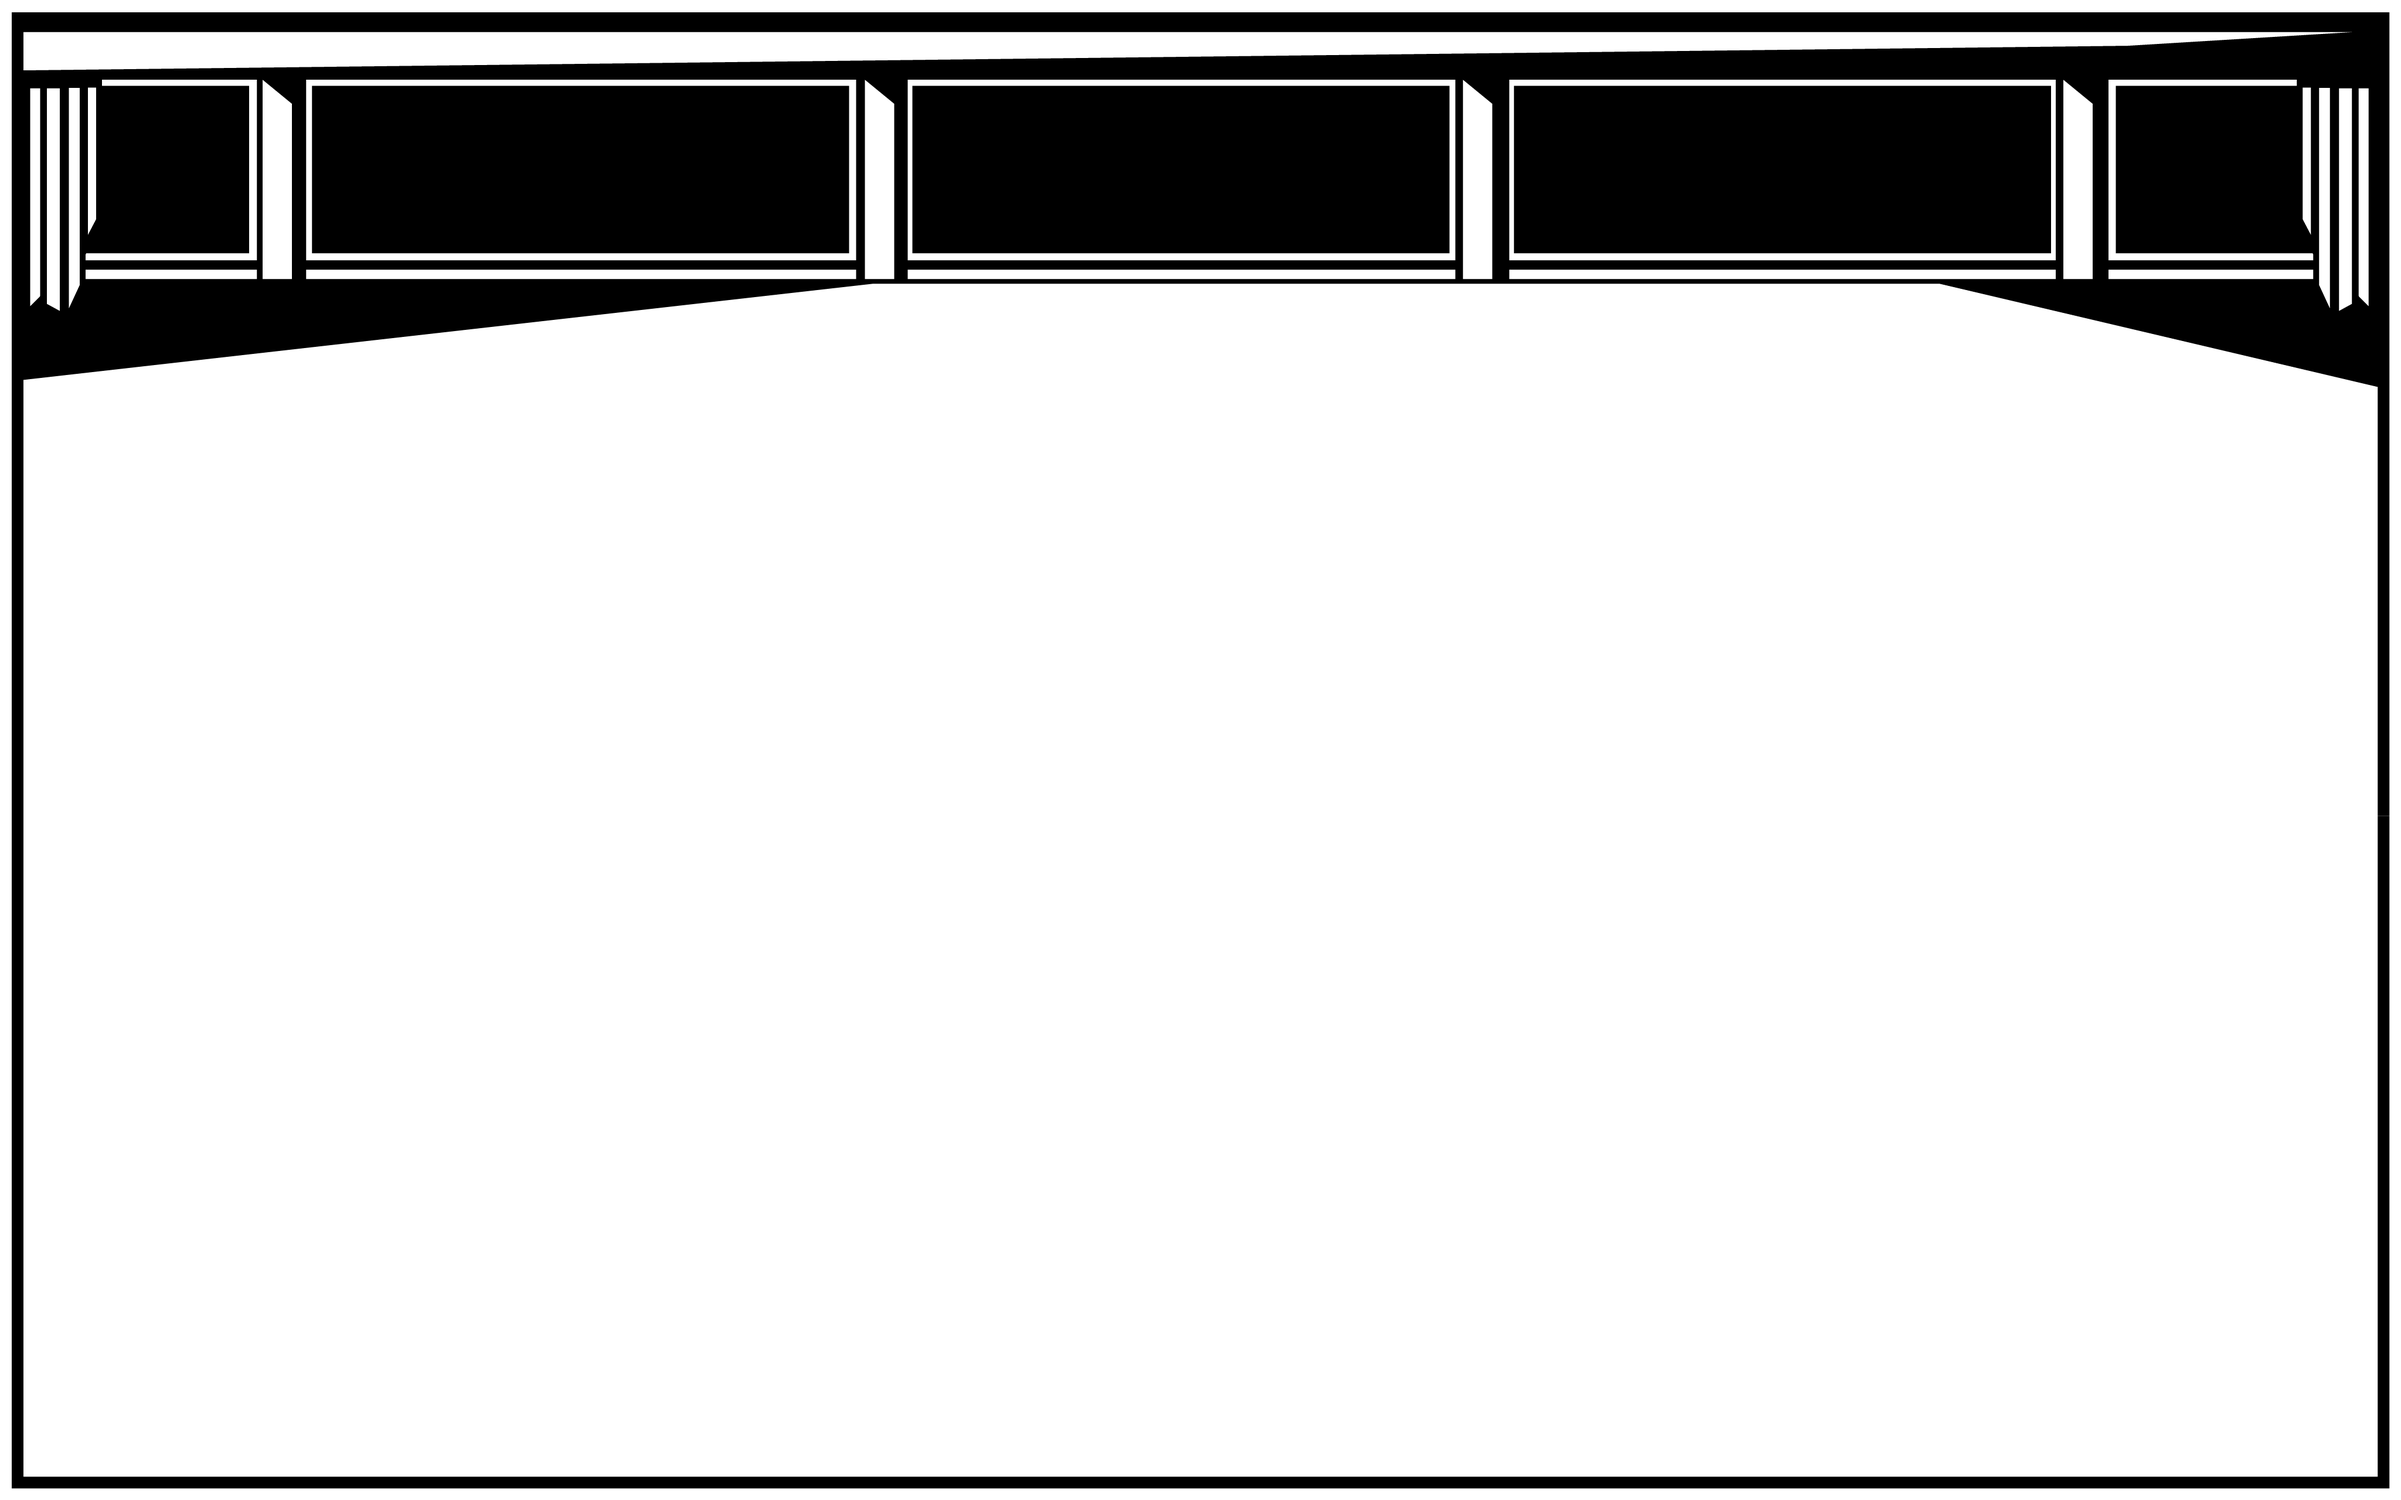
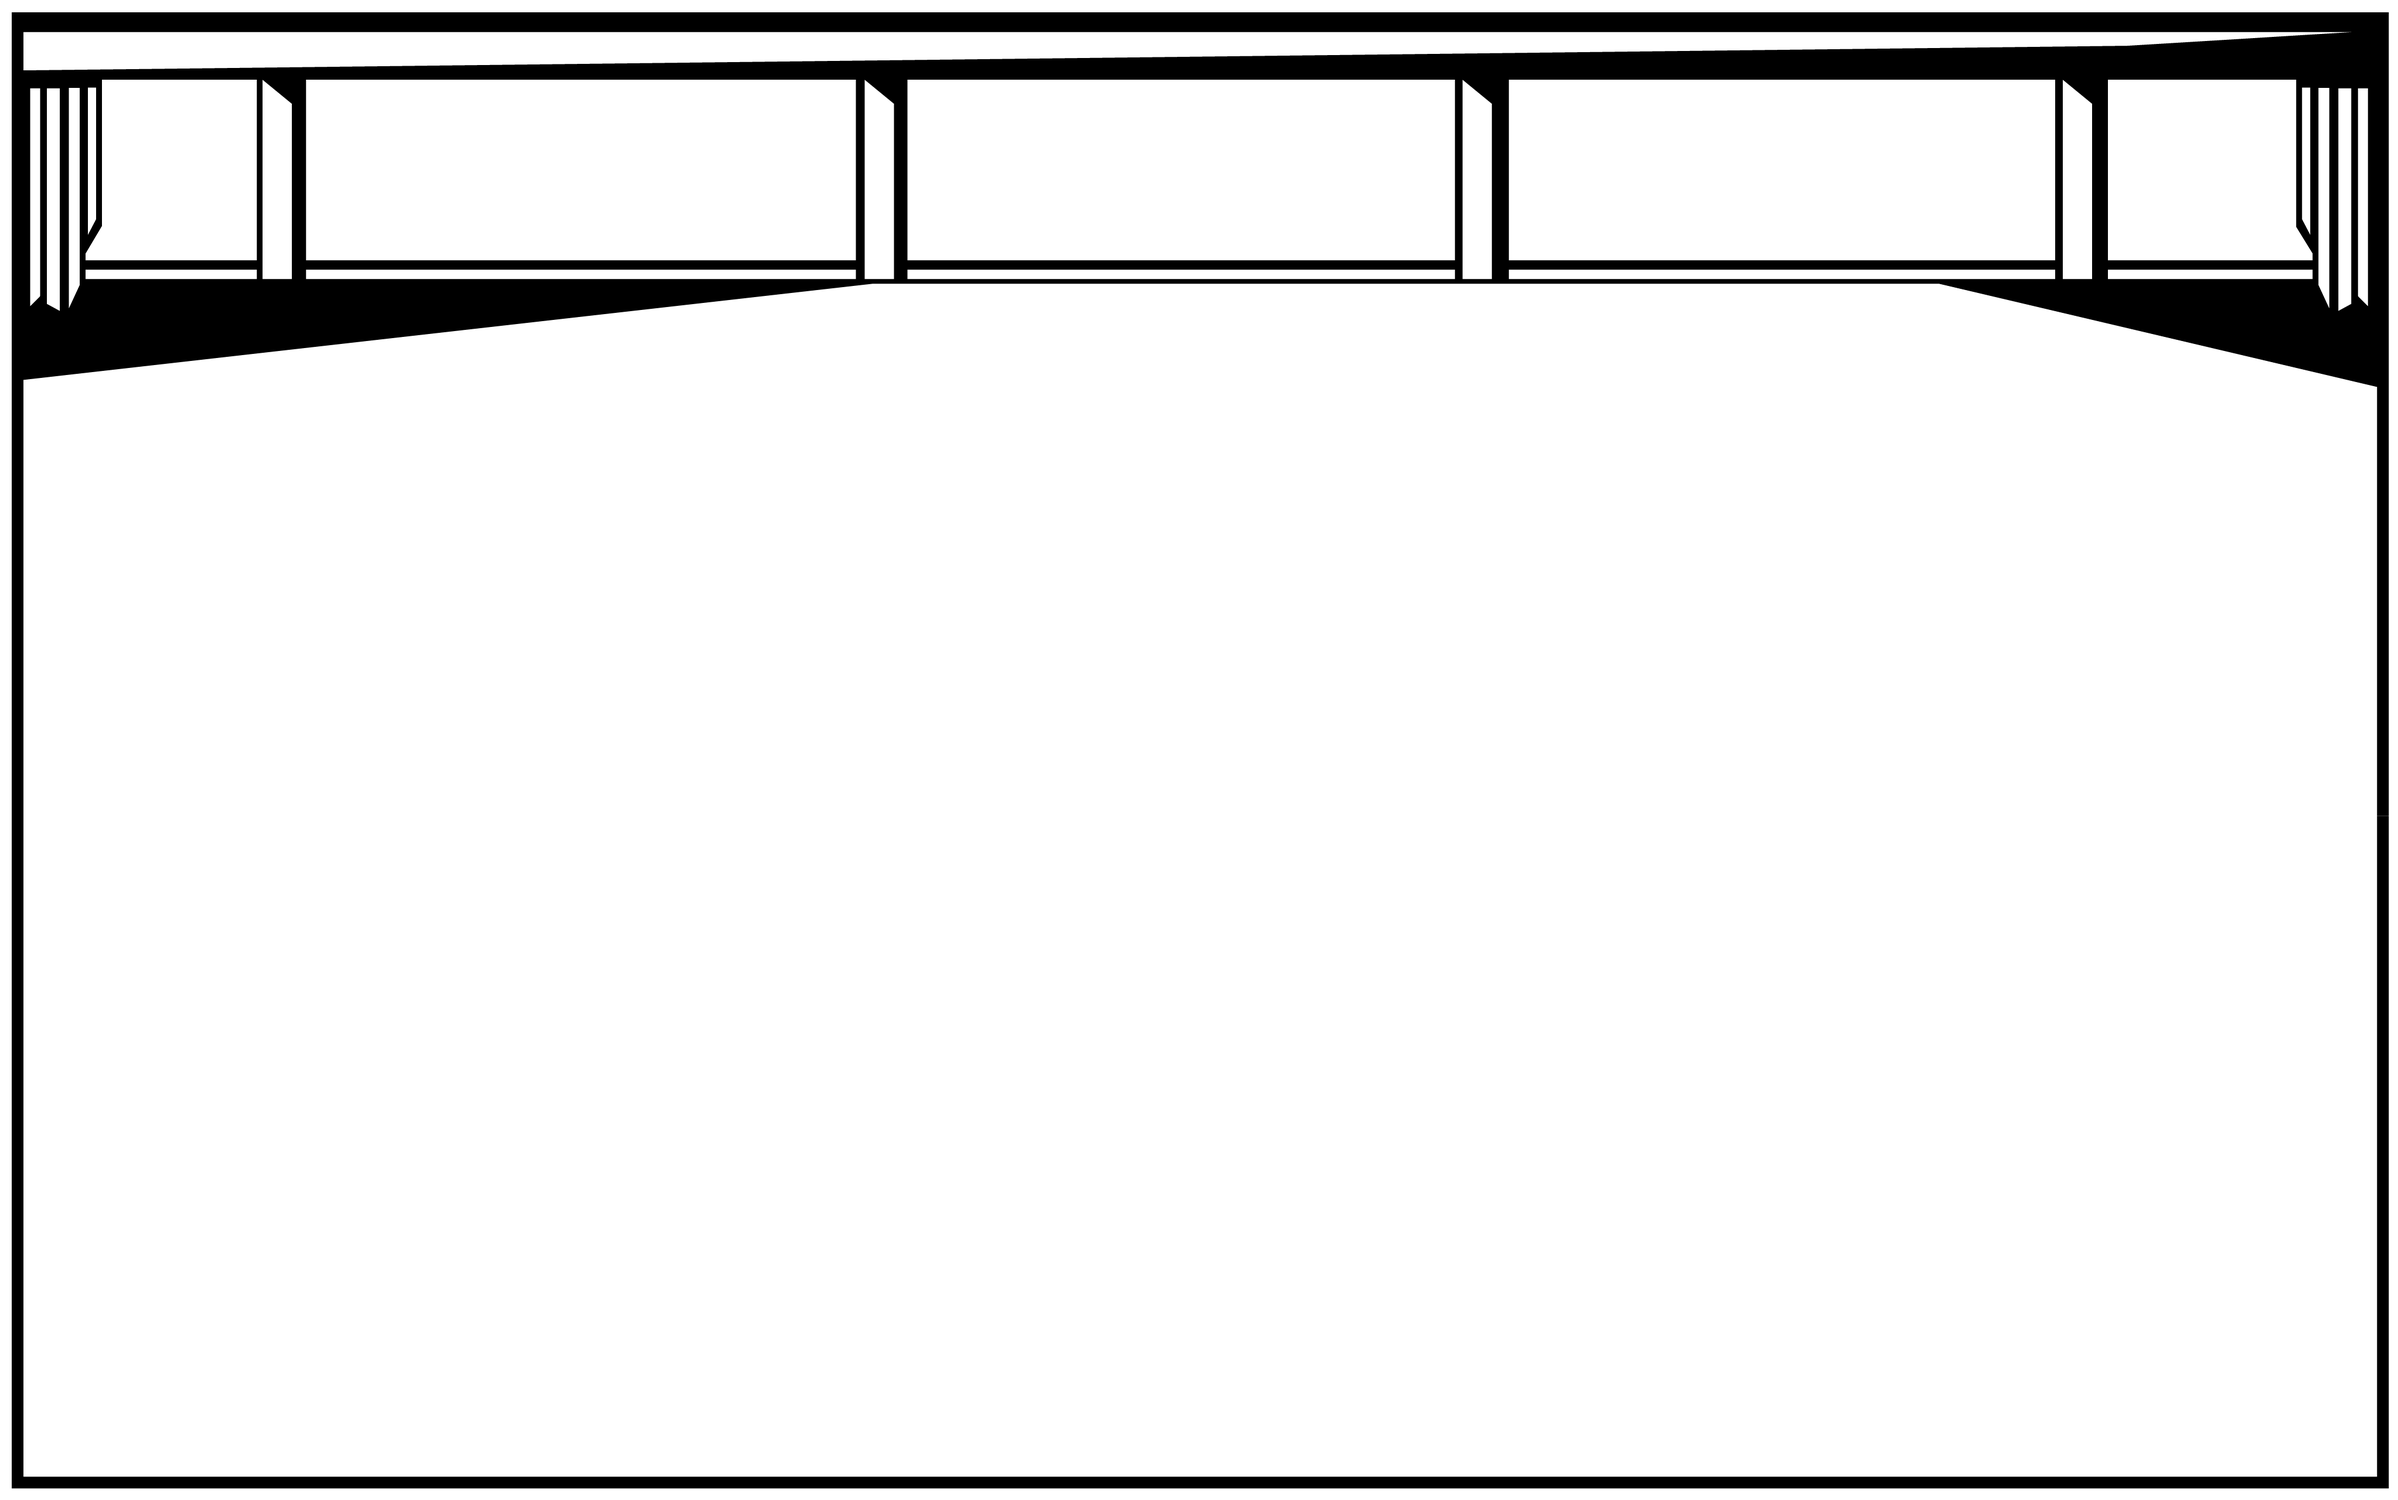
Added effects for situtations

Changed region(s): [[0.031, 0.0, 1.0, 1.0]]

diff --git a/Assets/Managers/GameManager.cs b/Assets/Managers/GameManager.cs
@@ -13,7 +13,6 @@ public class GameManager : MonoBehaviour {
 
 	public Camera cam;
 	public Text timerText;
-	public Text situationText;
 		
 	private float countdownTimer;
 	private float situationTimer;
@@ -28,43 +27,96 @@ public class GameManager : MonoBehaviour {
 	public Toggle p1RdyToggle;
 	public Toggle p2RdyToggle;
 
+	public GameObject room;
+	public GameObject windows;
+
+	private SpriteRenderer roomSprite;
+	private SpriteRenderer windowsSprite;
+	private float[] roomRGB; private float[] roomRGBTarg;
+	private float[] windowsRGB;
+	private float fireworksTimer;
 	private bool setupPhase;
 	private bool playerOneReady;
 	private bool playerTwoReady;
 
 	// Use this for initialization
 	void Awake () {
+		roomSprite = room.GetComponent<SpriteRenderer> ();
+		roomRGB = new float[3] {1.0f, 1.0f, 1.0f};
+		roomRGBTarg = new float[3] {1.0f, 1.0f, 1.0f};
+		windowsSprite = windows.GetComponent<SpriteRenderer> ();
+		windowsRGB = new float[3] {0.0f, 0.0f, 0.0f};
+		windowsSprite.color = new Color (0, 0, 0);
+
 		Application.targetFrameRate = 30;
 
 		gamestate = GameState.WaitForReady;
 		winner = Player.None;
 
 		countdownTimer = 5;
+		fireworksTimer = 0.0f;
 		timerText.enabled = false;
 
 		situationTimer = Random.Range (5.0f, 10.0f);
 
 		setupPhase = true; playerOneReady = false; playerTwoReady = false;
+
+
 	}
 
 	private void updateSituation() {
+		if (roomRGB[0] > roomRGBTarg[0]) roomRGB[0] -= 0.05f; if (roomRGB[1] > roomRGBTarg[1]) roomRGB[1] -= 0.05f; if (roomRGB[2] > roomRGBTarg[2]) roomRGB[2] -= 0.05f;
+		if (roomRGB[0] < roomRGBTarg[0]) roomRGB[0] += 0.05f; if (roomRGB[1] < roomRGBTarg[1]) roomRGB[1] += 0.05f; if (roomRGB[2] < roomRGBTarg[2]) roomRGB[2] += 0.05f;
+		roomSprite.color = new Color (roomRGB[0], roomRGB[1], roomRGB[2], 1.0f);
+		if (windowsRGB[0] > 0.0f) windowsRGB[0] -= 0.01f; if (windowsRGB[1] > 0.0f) windowsRGB[1] -= 0.01f; if (windowsRGB[2] > 0.0f) windowsRGB[2] -= 0.01f;
+		windowsSprite.color = new Color (windowsRGB[0], windowsRGB[1], windowsRGB[2], 1.0f);
+
+		if (charMgr.currentSituation == Situation.Dance) {
+			if (charMgr.danceTimer == 1) {
+				if (roomRGBTarg[0] == 0.5f) {
+					roomRGBTarg[0] = 1.0f; roomRGBTarg[1] = 0.5f; roomRGBTarg[2] = 1.0f;
+				} else if (roomRGBTarg[0] == 1.0f) {
+					roomRGBTarg[0] = 0.5f; roomRGBTarg[1] = 0.5f; roomRGBTarg[2] = 1.0f;
+				}
+			}
+		} else {
+			roomRGBTarg[0] = 1.0f; roomRGBTarg[1] = 1.0f; roomRGBTarg[2] = 1.0f;
+		}
+
+		if (charMgr.currentSituation == Situation.Fireworks) {
+			if (fireworksTimer <= 0) {
+				fireworksTimer = Random.Range (0.2f, 1.2f);
+				switch (Random.Range (0, 3)) {
+				case 0:
+					windowsRGB [0] = 1.0f; windowsRGB [1] = 0.0f; windowsRGB [2] = 0.0f;
+					break;
+				case 1:
+					windowsRGB [0] = 0.0f; windowsRGB [1] = 1.0f; windowsRGB [2] = 0.0f;
+					break;
+				case 2:
+					windowsRGB [0] = 0.0f; windowsRGB [1] = 0.0f; windowsRGB [2] = 1.0f;
+					break;
+				}
+			} else
+				fireworksTimer -= Time.deltaTime;
+		} else {
+			fireworksTimer = 0.0f;
+		}
+		
 		if (situationTimer <= 0) {
 			situationTimer = 0;
 
 			if (charMgr.currentSituation == Situation.None) {
 				switch(Random.Range (0,2)) {
 				case 0:
-					situationText.text = "Dance";
 					charMgr.changeSituation(Situation.Dance);
 					break;
 				case 1:
-					situationText.text = "Fireworks";
 					charMgr.changeSituation(Situation.Fireworks);
 					break;
 				}
 				situationTimer = Random.Range (5.0f, 15.0f);
 			} else {
-				situationText.text = "None";
 				charMgr.changeSituation(Situation.None);
 
 				situationTimer = Random.Range (10.0f, 20.0f);
